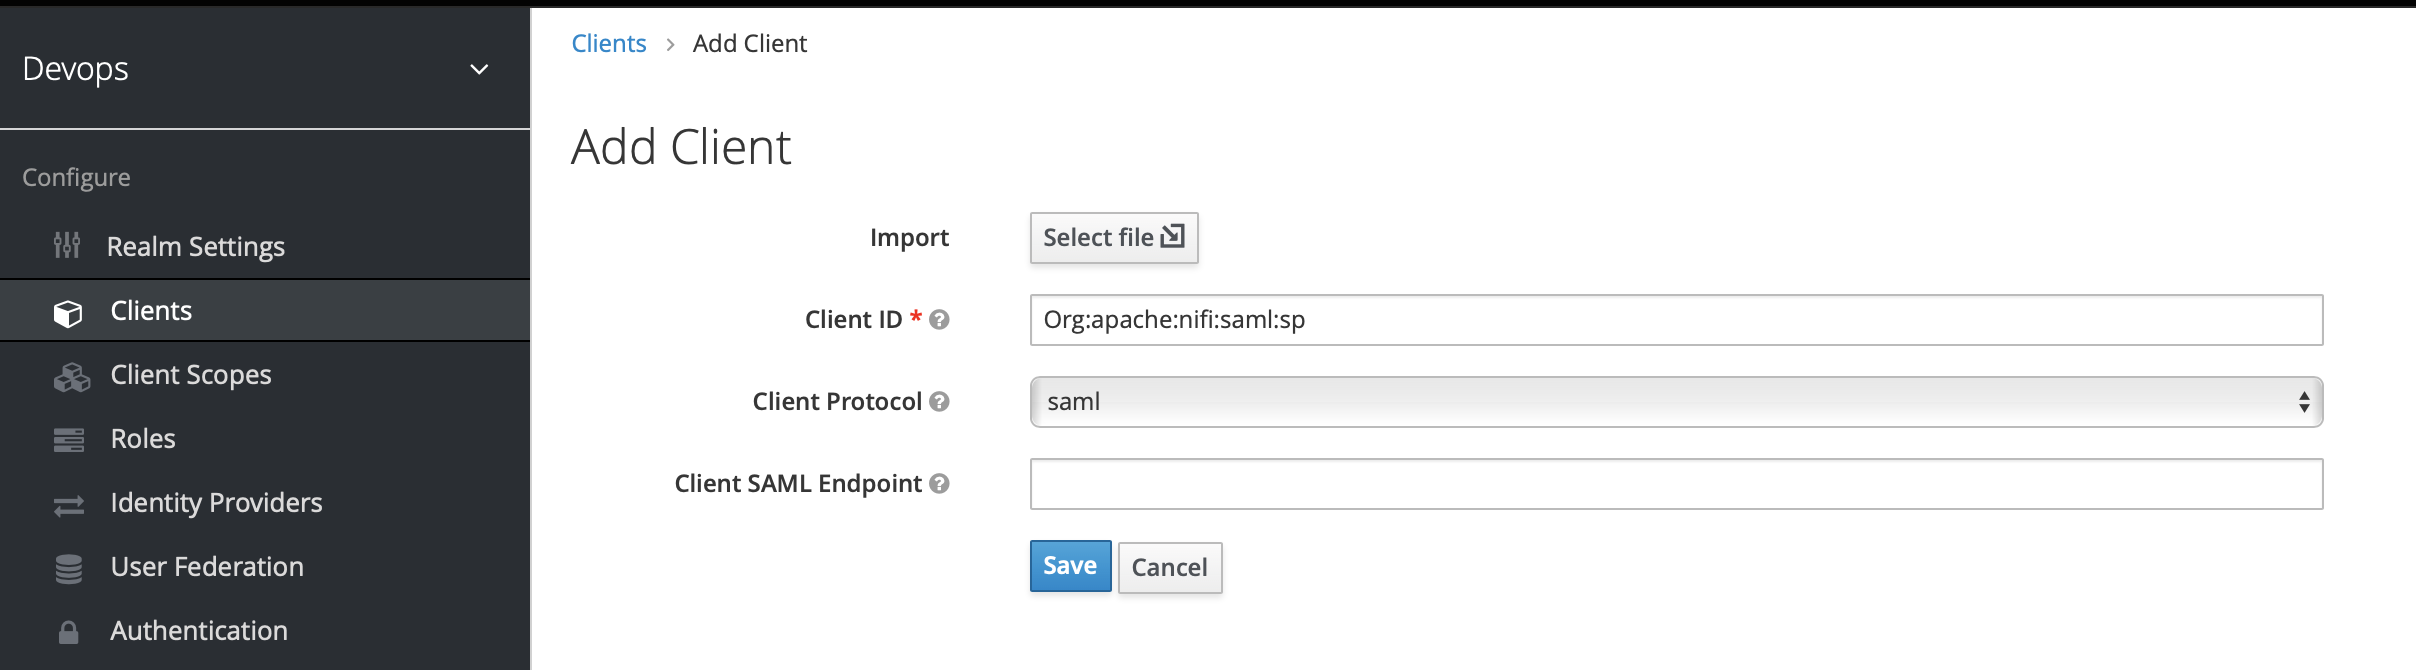
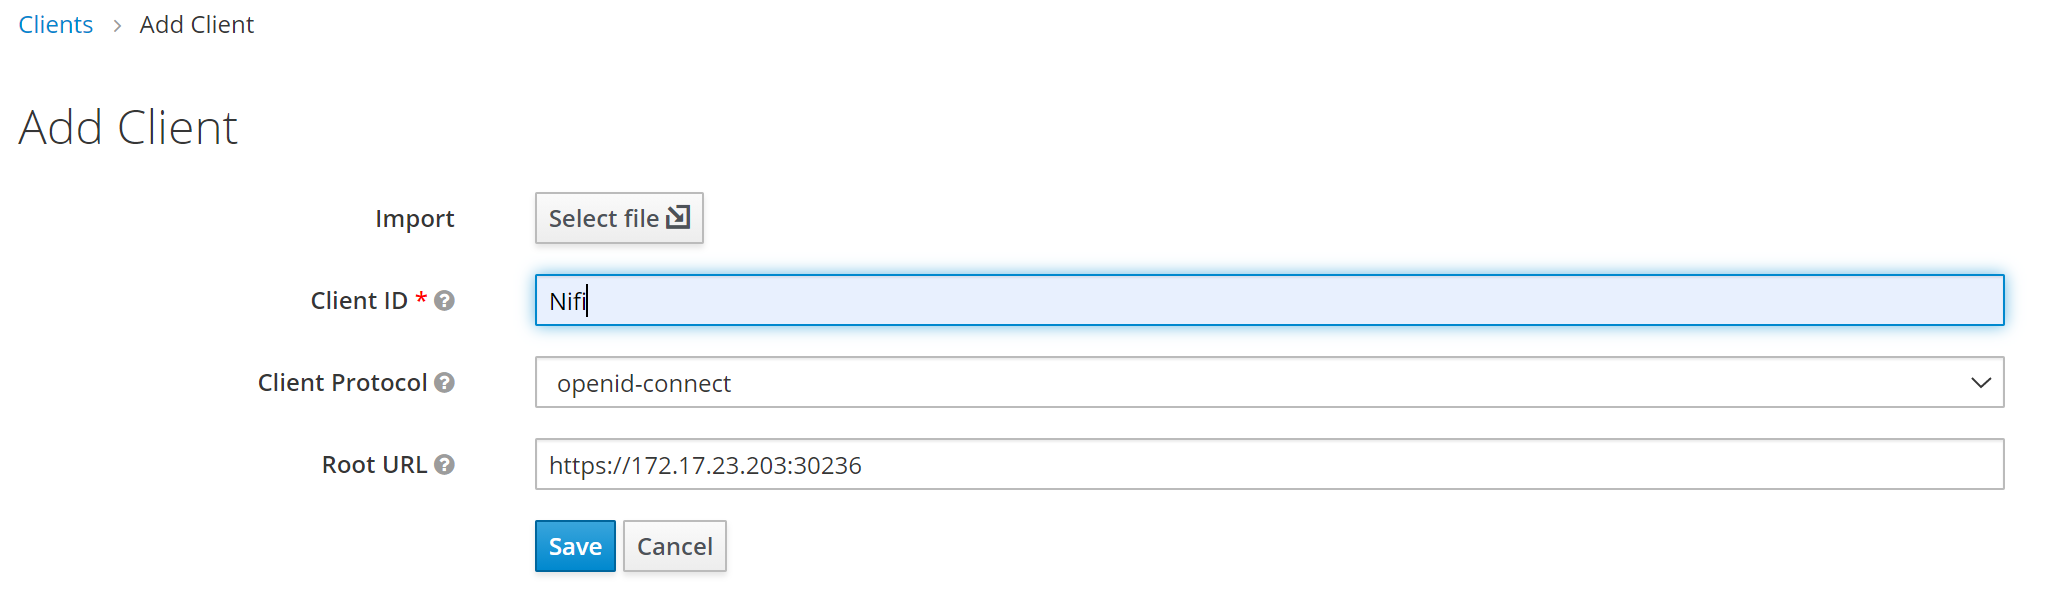
Update Keycloak.md for OIDC

Changed region(s): [[0.0, 0.0, 1.0, 1.0]]

diff --git a/doc/keycloak.md b/doc/keycloak.md
@@ -77,26 +77,26 @@ Now we open the client Grafana again, go to **credentials tag** and copy the `cl
 
 ## Create Nifi client
 
-To create a client for Nifi, we select `Clients` from the menu on the left, and then click the `Create` button to add a new client. Enter the Client ID `org:apache:nifi:saml:sp`, select `SAML` as the Client Protocol, and click `Save`.
+To create clients we first click **Clients** in the **left side menu** to open the Clients page.
 
-<img src="images/installation/client-nifi.png" alt="Keycloak - nifi client creation"/>
+<img src="images/installation/keycloak-clients.png" alt="Keucloak create client"/>
 
-Once created we need to configure **Root URL**, **Valid Redirect URIs**, **Base URL**, and **Master SAML Processing URL** as follows where `https://192.168.64.57:30236` is Nifi address:
+On the right side, we click `Create` and then on the `Add Client` dialog, we create a client called `Nifi` by filling the fields as follows:
 
-* Root URL: `https://192.168.64.57:30236`
-* Valid Redirect URIs: `/nifi-api/access/saml/*`
-* Base URL: `/nifi`
-* Master SAML Processing URL: `https://192.168.64.57:30236/nifi-api/access/saml/metadata`
+* Client ID: `Nifi`
+* Root URL: `\<your-Nifi-address>`, for this example our grafana adress is https://172.17.23.203:30326 (don't forget the "s" of "https")
 
-Since NiFi’s SAML implementation doesn’t use a single processing URL, we also need to configure the fine-grained SAML URLs. The values for the URLs should look like the following:
+<img src="images/installation/client-nifi.png" alt="Keycloak create client"/>
 
-<img src="images/installation/fine-grain-saml.png" alt="Create user"/>
+Once the client is created, we open the client configuration and change the **access type** to **confidential** from public, and complete the rest of the fields as shown below assuming our Nifi address is https://172.17.23.203:30326, then we **Save the config**.
 
-The last step is to add the certificates container `keystore.jks` **that we're going to use to secure the NiFi cluster**, to do so we click on the **SAML Keys** tab, and then click Import. We are going to import the `keystore.jks` that is used in `nifi.properties`.
 
-<img src="images/installation/import-keystore.png" alt="Create user"/>
+<img src="images/installation/client-nifi-created.png" alt="Keycloak Nifi client created"/>
 
-Now all that is left is to configure NiFi accordingly.
+
+Now we open the client Nifi again, go to **credentials tag** and copy the `client id` and `secret` because we are going to need them to configure Grafana later.
+
+<img src="images/installation/nifi-credentials.png" alt="Keycloak get Grafana credentials"/>
 
 ## Create user
 
@@ -124,7 +124,7 @@ The management page for the new user opens, we Click the **Credentials tab** to 
 
 the we Click **Set Password** to set the user password to the new one we specified.
 
-## Role mapping
+## Role mapping (only for Grafana)
 
 After creating the user we need to map this user to the grafana client we created earlier.
 
@@ -257,10 +257,6 @@ webProxyHost:<minikube_ip>:30236
 webHttpsHost:
 auth.keycloak.address: <minikube_ip>
 auth.keycloak.port: minikube service list -> fadi-keycloak port 
-auth.oidc.enabled: true
-auth.oidc.discovery.url: http://{{.Values.auth.keycloak.address}}:{{.Values.auth.keycloak.port}}/auth/realms/{{.Values.auth.keycloak.realm}}/.well-known/openid-configuration
-auth.oidc.di: true
-
 ```
 
 Edit `nifi.properties`:
@@ -285,32 +281,25 @@ nifi.security.truststorePasswd=changeit
 
 ```
 
-then we need to add the **SAML** configuration since it's the protocol used here, mainly we need to set `nifi.security.user.saml.idp.metadata.url` to `http://<link-to-keycloak>/auth/realms/devops/protocol/saml/descriptor` and `nifi.security.user.saml.sp.entity.id` to the previously created nifi client `org:apache:nifi:saml:sp` so the configuration should look something like this :
+then we need to add the **OIDC** configuration since it's the protocol used here, mainly we need to set `nifi.security.user.oidc.discovery.url` to `http://<link-to-keycloak>/auth/realms/devops/.well-known/openid-configuration` , `nifi.security.user.oidc.client.id` to the previously created nifi client `Nifi` and set the `nifi.security.user.oidc.client.secret` with the credential key of the Nifi client. So the configuration should look something like this :
 
->This configuration can also be set through the `values.yaml` file in the helm chart by the variables `auth.keycloak.*` .
+
 
 
 ```
-# SAML Properties #
-nifi.security.user.saml.idp.metadata.url=http://192.168.64.57:32766/auth/realms/devops/protocol/saml/descriptor
-nifi.security.user.saml.sp.entity.id=org:apache:nifi:saml:sp
-nifi.security.user.saml.identity.attribute.name=
-nifi.security.user.saml.group.attribute.name=
-nifi.security.user.saml.metadata.signing.enabled=false
-nifi.security.user.saml.request.signing.enabled=false
-nifi.security.user.saml.want.assertions.signed=true
-nifi.security.user.saml.signature.algorithm=http://www.w3.org/2001/04/xmldsig-more#rsa-sha256
-nifi.security.user.saml.signature.digest.algorithm=http://www.w3.org/2001/04/xmlenc#sha256
-nifi.security.user.saml.message.logging.enabled=false
-nifi.security.user.saml.authentication.expiration=12 hours
-nifi.security.user.saml.single.logout.enabled=false
-nifi.security.user.saml.http.client.truststore.strategy=JDK
-nifi.security.user.saml.http.client.connect.timeout=30 secs
-nifi.security.user.saml.http.client.read.timeout=30 secs
+# OpenId Connect SSO Properties #
+nifi.security.user.oidc.discovery.url=http://{{.Values.auth.keycloak.address}}:{{.Values.auth.keycloak.port}}/auth/realms/{{.Values.auth.keycloak.realm}}/.well-known/openid-configuration
+nifi.security.user.oidc.connect.timeout=5 secs
+nifi.security.user.oidc.read.timeout=5 secs
+nifi.security.user.oidc.client.id=Nifi
+nifi.security.user.oidc.client.secret=e7a12625-d4d9-4a34-b7fc-bb27a5f7cfa9
+nifi.security.user.oidc.preferred.jwsalgorithm=
+nifi.security.user.oidc.claim.identifying.user=preferred_username
+nifi.security.user.oidc.additional.scopes=
 
 ```
 
-The last thing we need to do is configure NiFi’s authorizers.xml. We will use the file-based providers, so we need to setup an initial user and initial admin that corresponds to one of the users we added to Keycloak. We’ll use the user john.
+The last thing we need to do is configure NiFi’s authorizers-empty.xml. We will use the file-based providers, so we need to setup an initial user and initial admin that corresponds to one of the users we added to Keycloak. We’ll use the user john.
 
 
 ```
@@ -336,4 +325,3 @@ The last thing we need to do is configure NiFi’s authorizers.xml. We will use 
 ```
 We need to pre-configure all of this in the [helm chart](https://github.com/cetic/helm-nifi) before deploying it for it to work in a kubernetes cluser, here's an **already configured** [branch](https://github.com/cetic/helm-nifi/blob/feature/keycloak/configs/nifi.properties).
 
-> PS: the current configuration restults in a ERR_BAD_SSL_CLIENT_AUTH_CERT error because we're using self-signed certs auto-generated by the tls-toolkit, we're currently working to replace them with valid certs.
